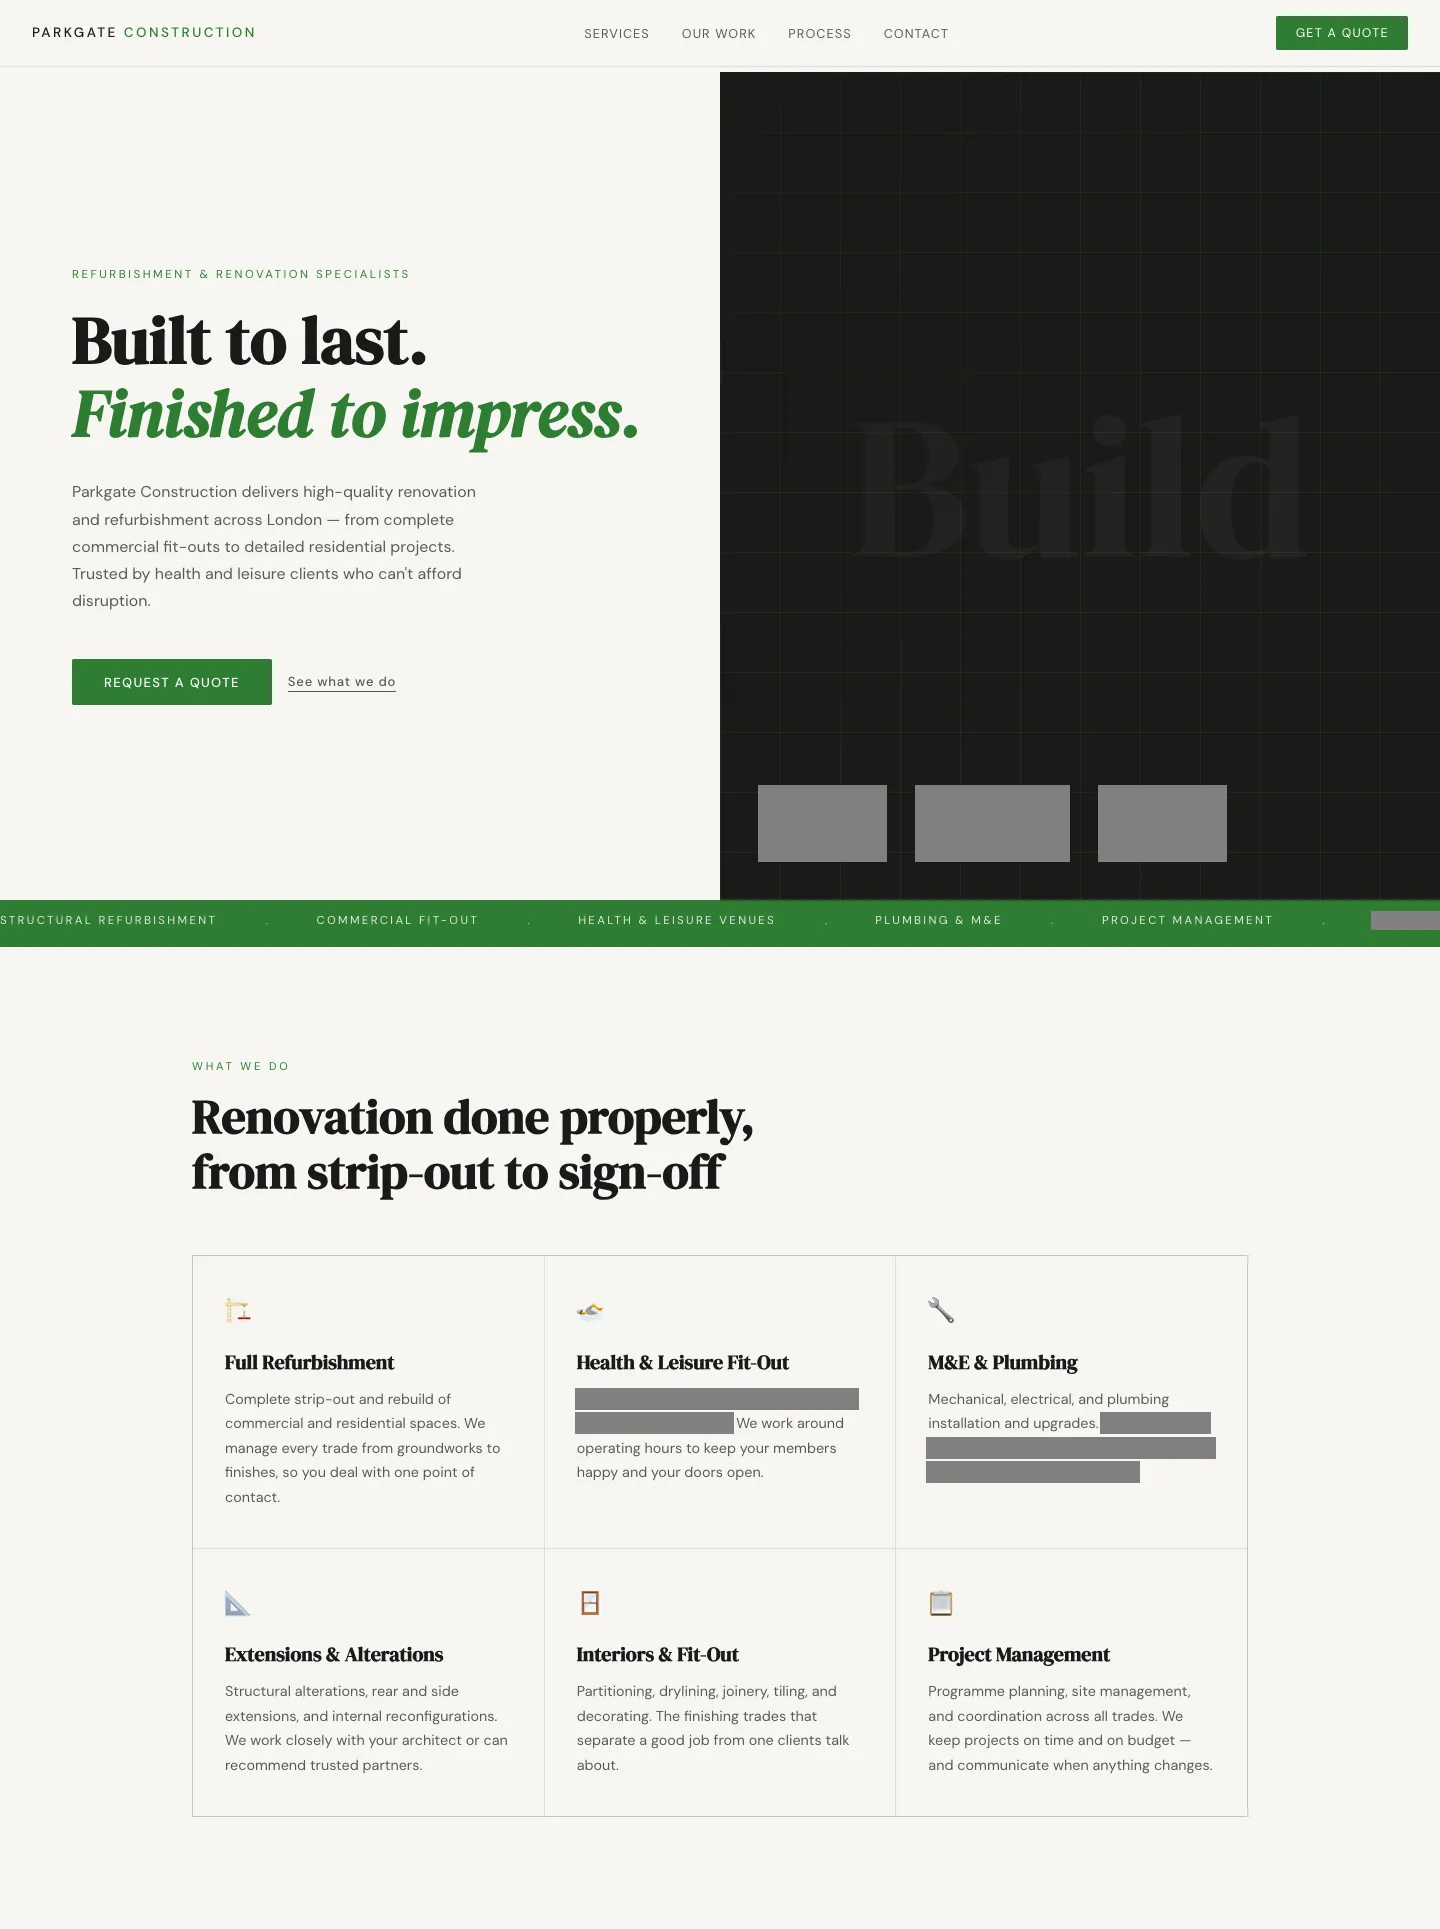
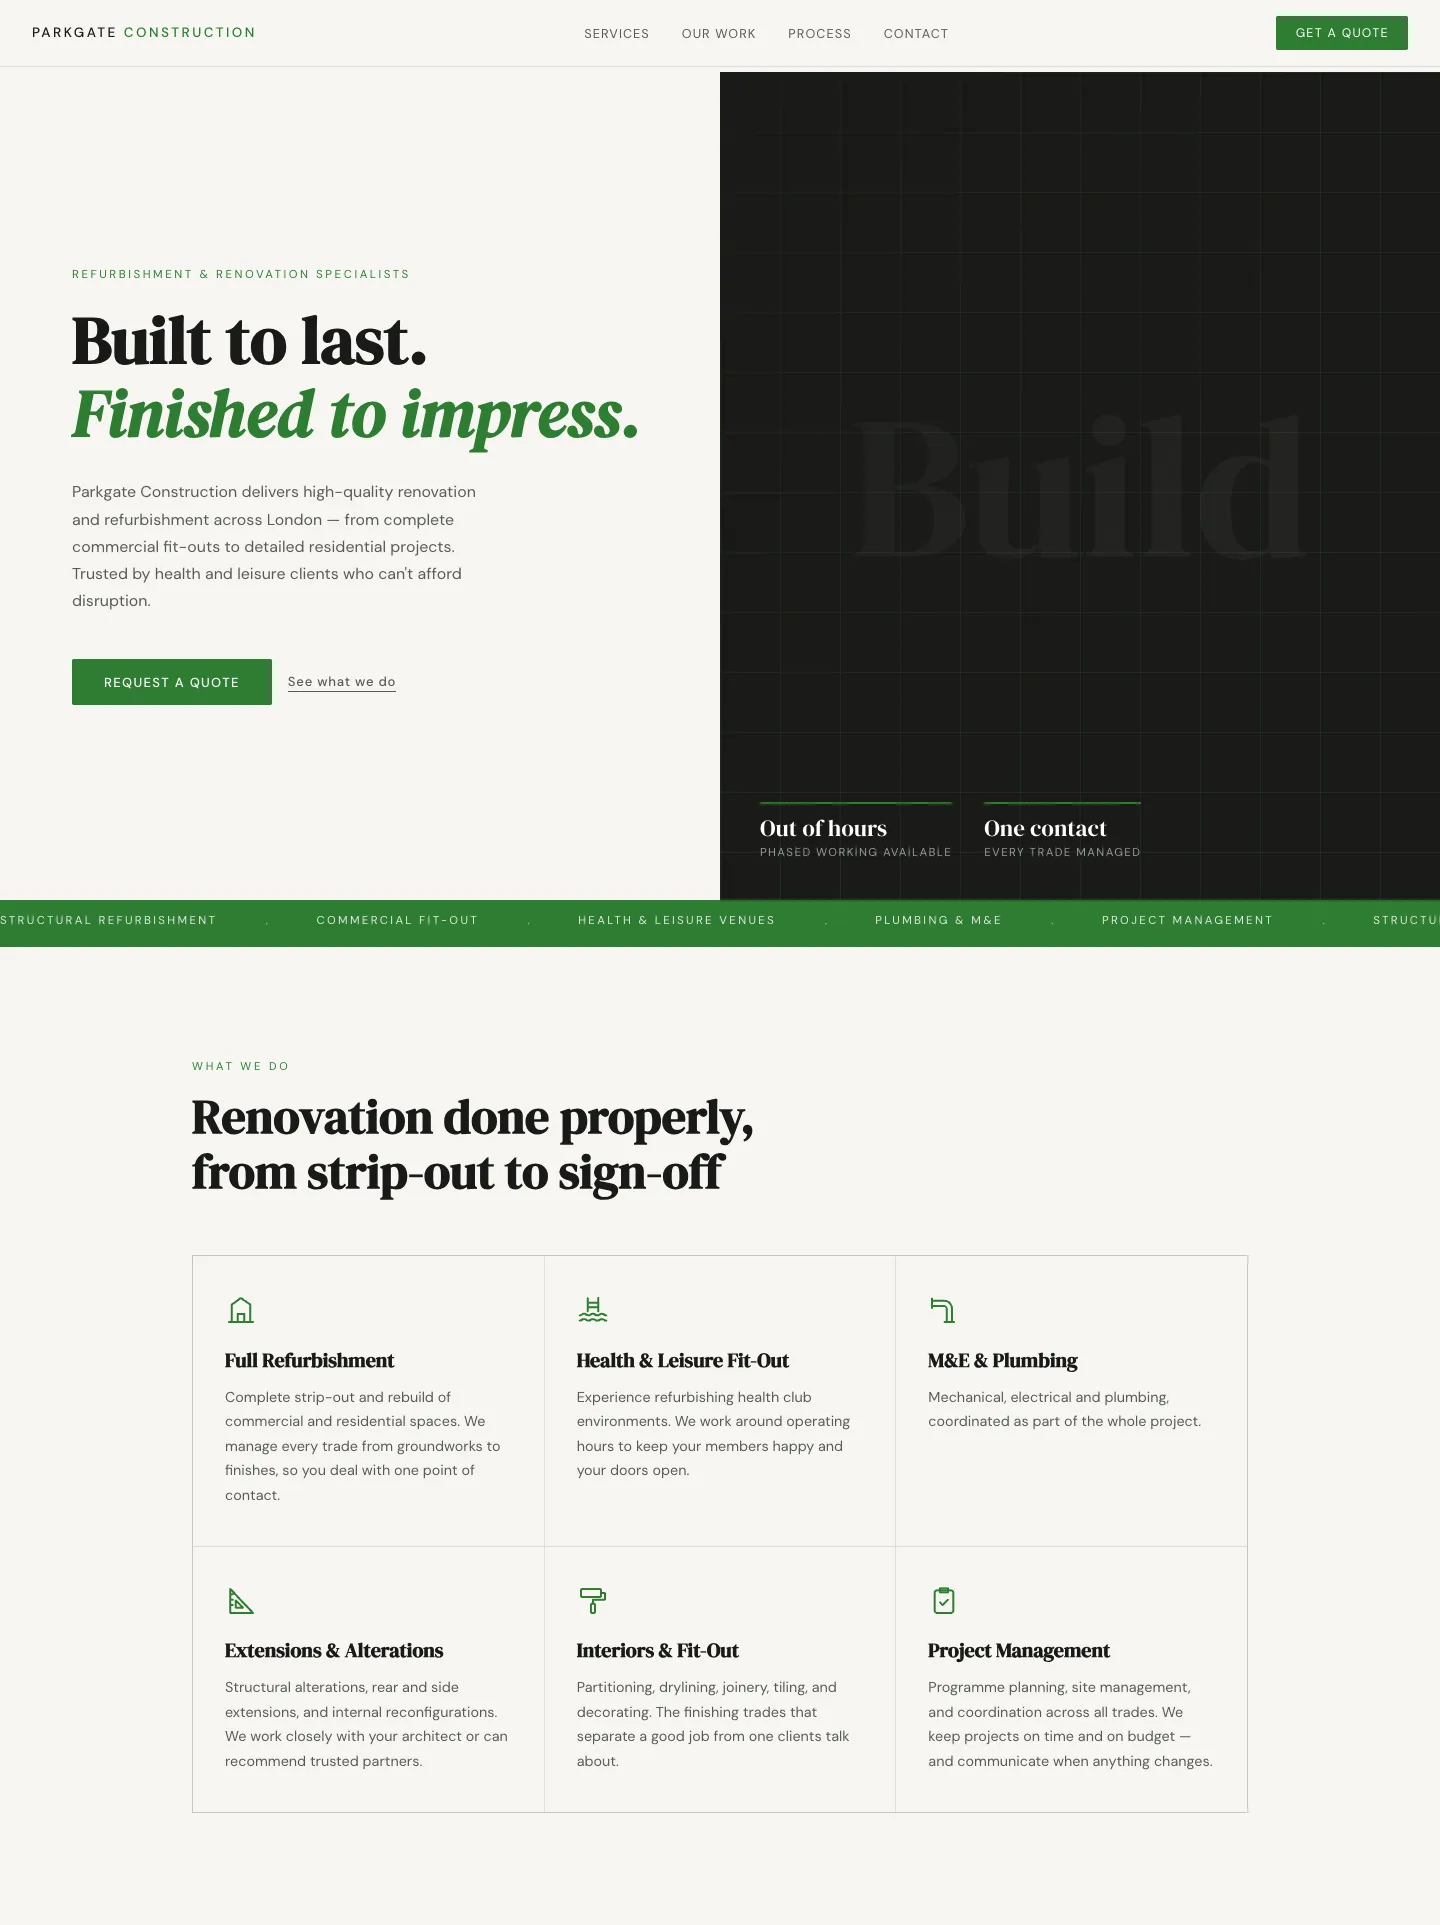
fix: recapture parkgate screenshots
The live site dropped its phone number, placeholder figures, emoji icons
and unconfirmed claims, so the captures no longer need grey blocks.
New desktop (1440 x 1925, DPR 1) and phone (780 x 5862, DPR 2) captures,
updated width/height, new alt text, and the stale grey-block note
removed from the What shipped comment.

diff --git a/work/parkgate/index.html b/work/parkgate/index.html
@@ -817,8 +817,7 @@
       </section>
 
       <!-- WHAT SHIPPED: teal in both themes, echoing the home page's Make
-           band. The captures are the live site's first screens, with
-           unconfirmed figures and claims blocked out in grey.
+           band. The captures are the live site's first screens.
            Each frame is a link to the whole capture, and its caption says
            so where everyone can see it. aria-describedby hands the same
            words to screen readers: they announce the image's alt text as
@@ -831,15 +830,15 @@
           <div class="shots">
             <figure class="shot shot--desktop">
               <a class="shot-frame" href="../../images/parkgate/parkgate-desktop-1440.webp" aria-describedby="shot-desktop-hint">
-                <img src="../../images/parkgate/parkgate-desktop-1440.webp" width="1440" height="1929" loading="lazy" decoding="async"
-                     alt="The Parkgate Construction homepage on a desktop screen: a cream panel with the headline &quot;Built to last. Finished to impress.&quot; in black and green serif type and a green &quot;Request a quote&quot; button, beside a dark panel with a faint architectural grid. Grey blocks cover unconfirmed figures.">
+                <img src="../../images/parkgate/parkgate-desktop-1440.webp" width="1440" height="1925" loading="lazy" decoding="async"
+                     alt="The Parkgate Construction homepage on a desktop screen: a cream panel with the headline 'Built to last. Finished to impress.' in black and green serif type and a green 'Request a quote' button, beside a dark panel with a faint architectural grid and two short statements about how the firm works. Below, a green strip of services and six service cards, each with a simple line icon.">
               </a>
               <figcaption>Desktop · 1440px · <span id="shot-desktop-hint">opens the full-size image</span></figcaption>
             </figure>
             <figure class="shot shot--phone">
               <a class="shot-frame" href="../../images/parkgate/parkgate-phone-390.webp" aria-describedby="shot-phone-hint">
-                <img src="../../images/parkgate/parkgate-phone-390.webp" width="780" height="5984" loading="lazy" decoding="async"
-                     alt="The same homepage on a phone: the Parkgate Construction wordmark and a green &quot;Get a quote&quot; button above the headline, introduction and &quot;Request a quote&quot; button. Grey blocks cover unconfirmed figures further down.">
+                <img src="../../images/parkgate/parkgate-phone-390.webp" width="780" height="5862" loading="lazy" decoding="async"
+                     alt="The same homepage on a phone: the Parkgate Construction wordmark and a green 'Get a quote' button above the headline, introduction and 'Request a quote' button, followed by the dark panel's short statements and the six service cards stacked, each with a simple line icon.">
               </a>
               <figcaption>Phone · 390px · <span id="shot-phone-hint">opens the full-size image</span></figcaption>
             </figure>
